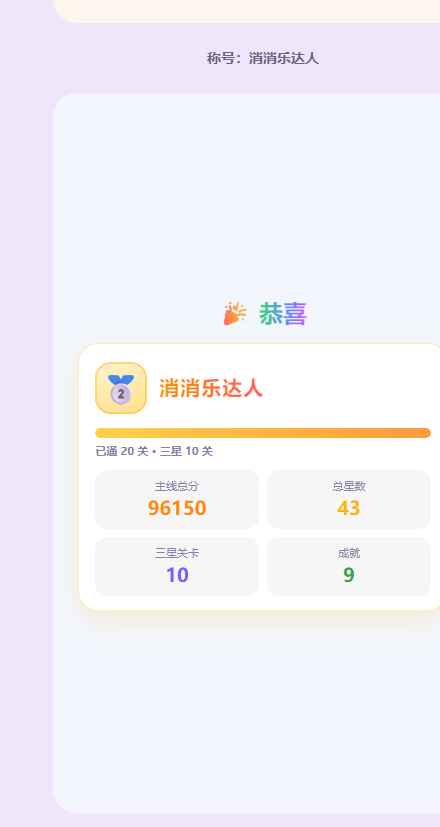
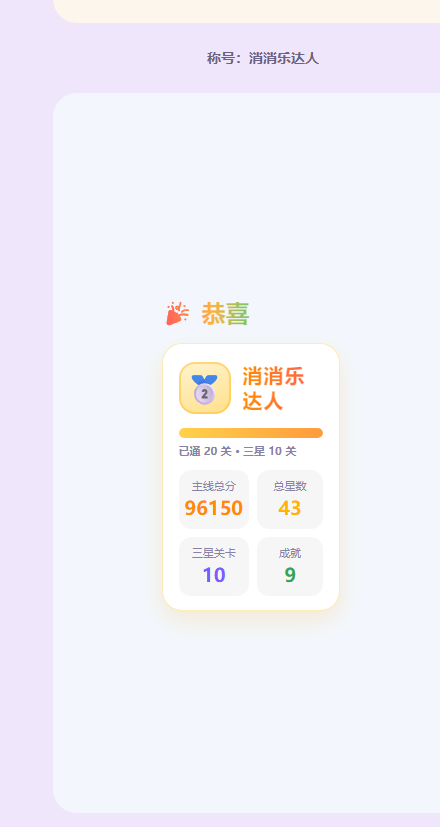
Update files

diff --git a/index.html b/index.html
@@ -12,8 +12,8 @@
 <link rel="preload" as="image" type="image/webp" href="./assets/4.webp">
 <link rel="preload" as="image" type="image/webp" href="./assets/5.webp">
 <link rel="preload" as="image" type="image/png" href="./assets/nailong.png">
-<link rel="stylesheet" href="./css/style.css?v=20261108m">
-<link rel="stylesheet" href="./css/themes.css?v=20261108m">
+<link rel="stylesheet" href="./css/style.css?v=20261108n">
+<link rel="stylesheet" href="./css/themes.css?v=20261108n">
 </head>
 <body data-theme="grass" data-view="menu">
 <div class="game-container">
@@ -760,8 +760,9 @@
 
   <!-- 🎉 恭喜：主线成绩单（关卡记录右下角「结算」键随时可看） -->
   <div class="overlay" id="game-complete" style="display:none;">
-    <h2 class="title small">🎉 恭喜</h2>
-    <div class="master-card">
+    <div class="master-stage">
+      <h2 class="title small">🎉 恭喜</h2>
+      <div class="master-card">
       <div class="master-head">
         <span class="master-crown" id="master-crown">🌱</span>
         <div class="master-title-box">
@@ -775,6 +776,7 @@
         <div class="master-item"><span>总星数</span><b id="complete-total-stars">0</b></div>
         <div class="master-item"><span>三星关卡</span><b id="master-perfect">0</b></div>
         <div class="master-item"><span>成就</span><b id="master-ach">0</b></div>
+      </div>
       </div>
     </div>
   </div>
@@ -971,22 +973,22 @@
   </div>
 </div>
 
-<script src="./js/rng.js?v=20261108m"></script>
-<script src="./js/storage.js?v=20261108m"></script>
-<script src="./js/audio.js?v=20261108m"></script>
-<script src="./js/effects.js?v=20261108m"></script>
-<script src="./js/specials.js?v=20261108m"></script>
-<script src="./js/goals.js?v=20261108m"></script>
-<script src="./js/tasks.js?v=20261108m"></script>
-<script src="./js/mail.js?v=20261108m"></script>
-<script src="./js/input.js?v=20261108m"></script>
-<script src="./js/builtin-music.js?v=20261108m"></script>
-<script src="./js/music.js?v=20261108m"></script>
-<script src="./js/meta.js?v=20261108m"></script>
-<script src="./js/cloud-config.js?v=20261108m"></script>
-<script src="./js/cloud.js?v=20261108m"></script>
-<script src="./js/account.js?v=20261108m"></script>
-<script src="./js/board.js?v=20261108m"></script>
-<script src="./js/game.js?v=20261108m"></script>
+<script src="./js/rng.js?v=20261108n"></script>
+<script src="./js/storage.js?v=20261108n"></script>
+<script src="./js/audio.js?v=20261108n"></script>
+<script src="./js/effects.js?v=20261108n"></script>
+<script src="./js/specials.js?v=20261108n"></script>
+<script src="./js/goals.js?v=20261108n"></script>
+<script src="./js/tasks.js?v=20261108n"></script>
+<script src="./js/mail.js?v=20261108n"></script>
+<script src="./js/input.js?v=20261108n"></script>
+<script src="./js/builtin-music.js?v=20261108n"></script>
+<script src="./js/music.js?v=20261108n"></script>
+<script src="./js/meta.js?v=20261108n"></script>
+<script src="./js/cloud-config.js?v=20261108n"></script>
+<script src="./js/cloud.js?v=20261108n"></script>
+<script src="./js/account.js?v=20261108n"></script>
+<script src="./js/board.js?v=20261108n"></script>
+<script src="./js/game.js?v=20261108n"></script>
 </body>
 </html>

diff --git a/_preview/master-titles.html b/_preview/master-titles.html
@@ -36,17 +36,19 @@ TITLES.forEach((t) => {
   gc.className = 'gc';
   gc.style.background = t.bg;
   gc.innerHTML =
-    '<h2 class="title small">🎉 恭喜</h2>' +
-    '<div class="master-card">' +
-      '<div class="master-head"><span class="master-crown">' + t.crown + '</span>' +
-      '<div class="master-title-box"><b>' + t.name + '</b></div></div>' +
-      '<div class="master-bar"><span></span></div>' +
-      '<p class="master-progress">已通 ' + t.cleared + ' 关 · 三星 ' + t.perfect + ' 关</p>' +
-      '<div class="master-grid">' +
-        '<div class="master-item"><span>主线总分</span><b>' + t.score + '</b></div>' +
-        '<div class="master-item"><span>总星数</span><b>' + t.stars + '</b></div>' +
-        '<div class="master-item"><span>三星关卡</span><b>' + t.perfect + '</b></div>' +
-        '<div class="master-item"><span>成就</span><b>' + t.ach + '</b></div>' +
+    '<div class="master-stage">' +
+      '<h2 class="title small">🎉 恭喜</h2>' +
+      '<div class="master-card">' +
+        '<div class="master-head"><span class="master-crown">' + t.crown + '</span>' +
+        '<div class="master-title-box"><b>' + t.name + '</b></div></div>' +
+        '<div class="master-bar"><span></span></div>' +
+        '<p class="master-progress">已通 ' + t.cleared + ' 关 · 三星 ' + t.perfect + ' 关</p>' +
+        '<div class="master-grid">' +
+          '<div class="master-item"><span>主线总分</span><b>' + t.score + '</b></div>' +
+          '<div class="master-item"><span>总星数</span><b>' + t.stars + '</b></div>' +
+          '<div class="master-item"><span>三星关卡</span><b>' + t.perfect + '</b></div>' +
+          '<div class="master-item"><span>成就</span><b>' + t.ach + '</b></div>' +
+        '</div>' +
       '</div>' +
     '</div>';
   wrap.appendChild(cap);

diff --git a/test-smoke.js b/test-smoke.js
@@ -2129,12 +2129,14 @@ function check(name, ok) {
       /'auth-menu', 'auth-form', 'fix-menu', 'nick-menu', 'cloud-menu'\]\.indexOf\(ov\.id\) >= 0/
         .test(fs.readFileSync(path.join(__dirname, 'js', 'music.js'), 'utf8'));
   })());
-  check('成绩单：恢复原始形状（无 master-stage 包裹、无底部文案），进度线保留且一直满格', (() => {
+  check('成绩单：卡片严格居中（stage width:100% 包裹、标题悬浮上方、不改卡片尺寸）、无底部文案、进度线恒满格', (() => {
     const gc = htmlSrc.slice(htmlSrc.indexOf('id="game-complete"'), htmlSrc.indexOf('id="chapters-menu"'));
-    return !gc.includes('master-stage') && !gc.includes('master-foot') &&
+    return gc.includes('master-stage') && !gc.includes('master-foot') &&
       !gc.includes('继续闯关') && !gc.includes('满分毕业') &&
       gc.includes('master-bar') &&
-      !/#game-complete \.master-stage \{/.test(cssSrc) && !/\.master-foot \{/.test(cssSrc) &&
+      /#game-complete \.master-stage \{[^}]*width:\s*100%/.test(cssSrc) &&
+      /#game-complete \.master-stage > \.title\.small \{[^}]*position:\s*absolute/.test(cssSrc) &&
+      !/\.master-foot \{/.test(cssSrc) &&
       /\.master-bar span\s*\{[^}]*width:\s*100%/.test(cssSrc) &&
       !/master-bar-fill/.test(jsSrc);
   })());

diff --git a/css/themes.css b/css/themes.css
@@ -2166,6 +2166,24 @@ body[data-skin="black"]   { --skin-target-bg: rgba(255, 143, 171, 0.22); }
   border-radius: 999px;
   background: linear-gradient(90deg, #ffd24a, #ff9a3c);
 }
+/* 成绩单居中：卡片（唯一在流内的元素）严格落在屏幕正中，「🎉 恭喜」悬浮在卡片上方。
+   注意 stage 必须 width:100% —— 否则它收缩包裹后，卡片 88% 会按收缩后的宽度算，形状就变了 */
+#game-complete .master-stage {
+  position: relative;
+  width: 100%;
+  display: flex;
+  flex-direction: column;
+  align-items: center;
+  justify-content: center;
+}
+#game-complete .master-stage > .title.small {
+  position: absolute;
+  bottom: calc(100% + 10px);
+  left: 0;
+  right: 0;
+  margin: 0;
+  text-align: center;
+}
 .master-progress {
   margin: 0 0 12px;
   font-size: 11px;
